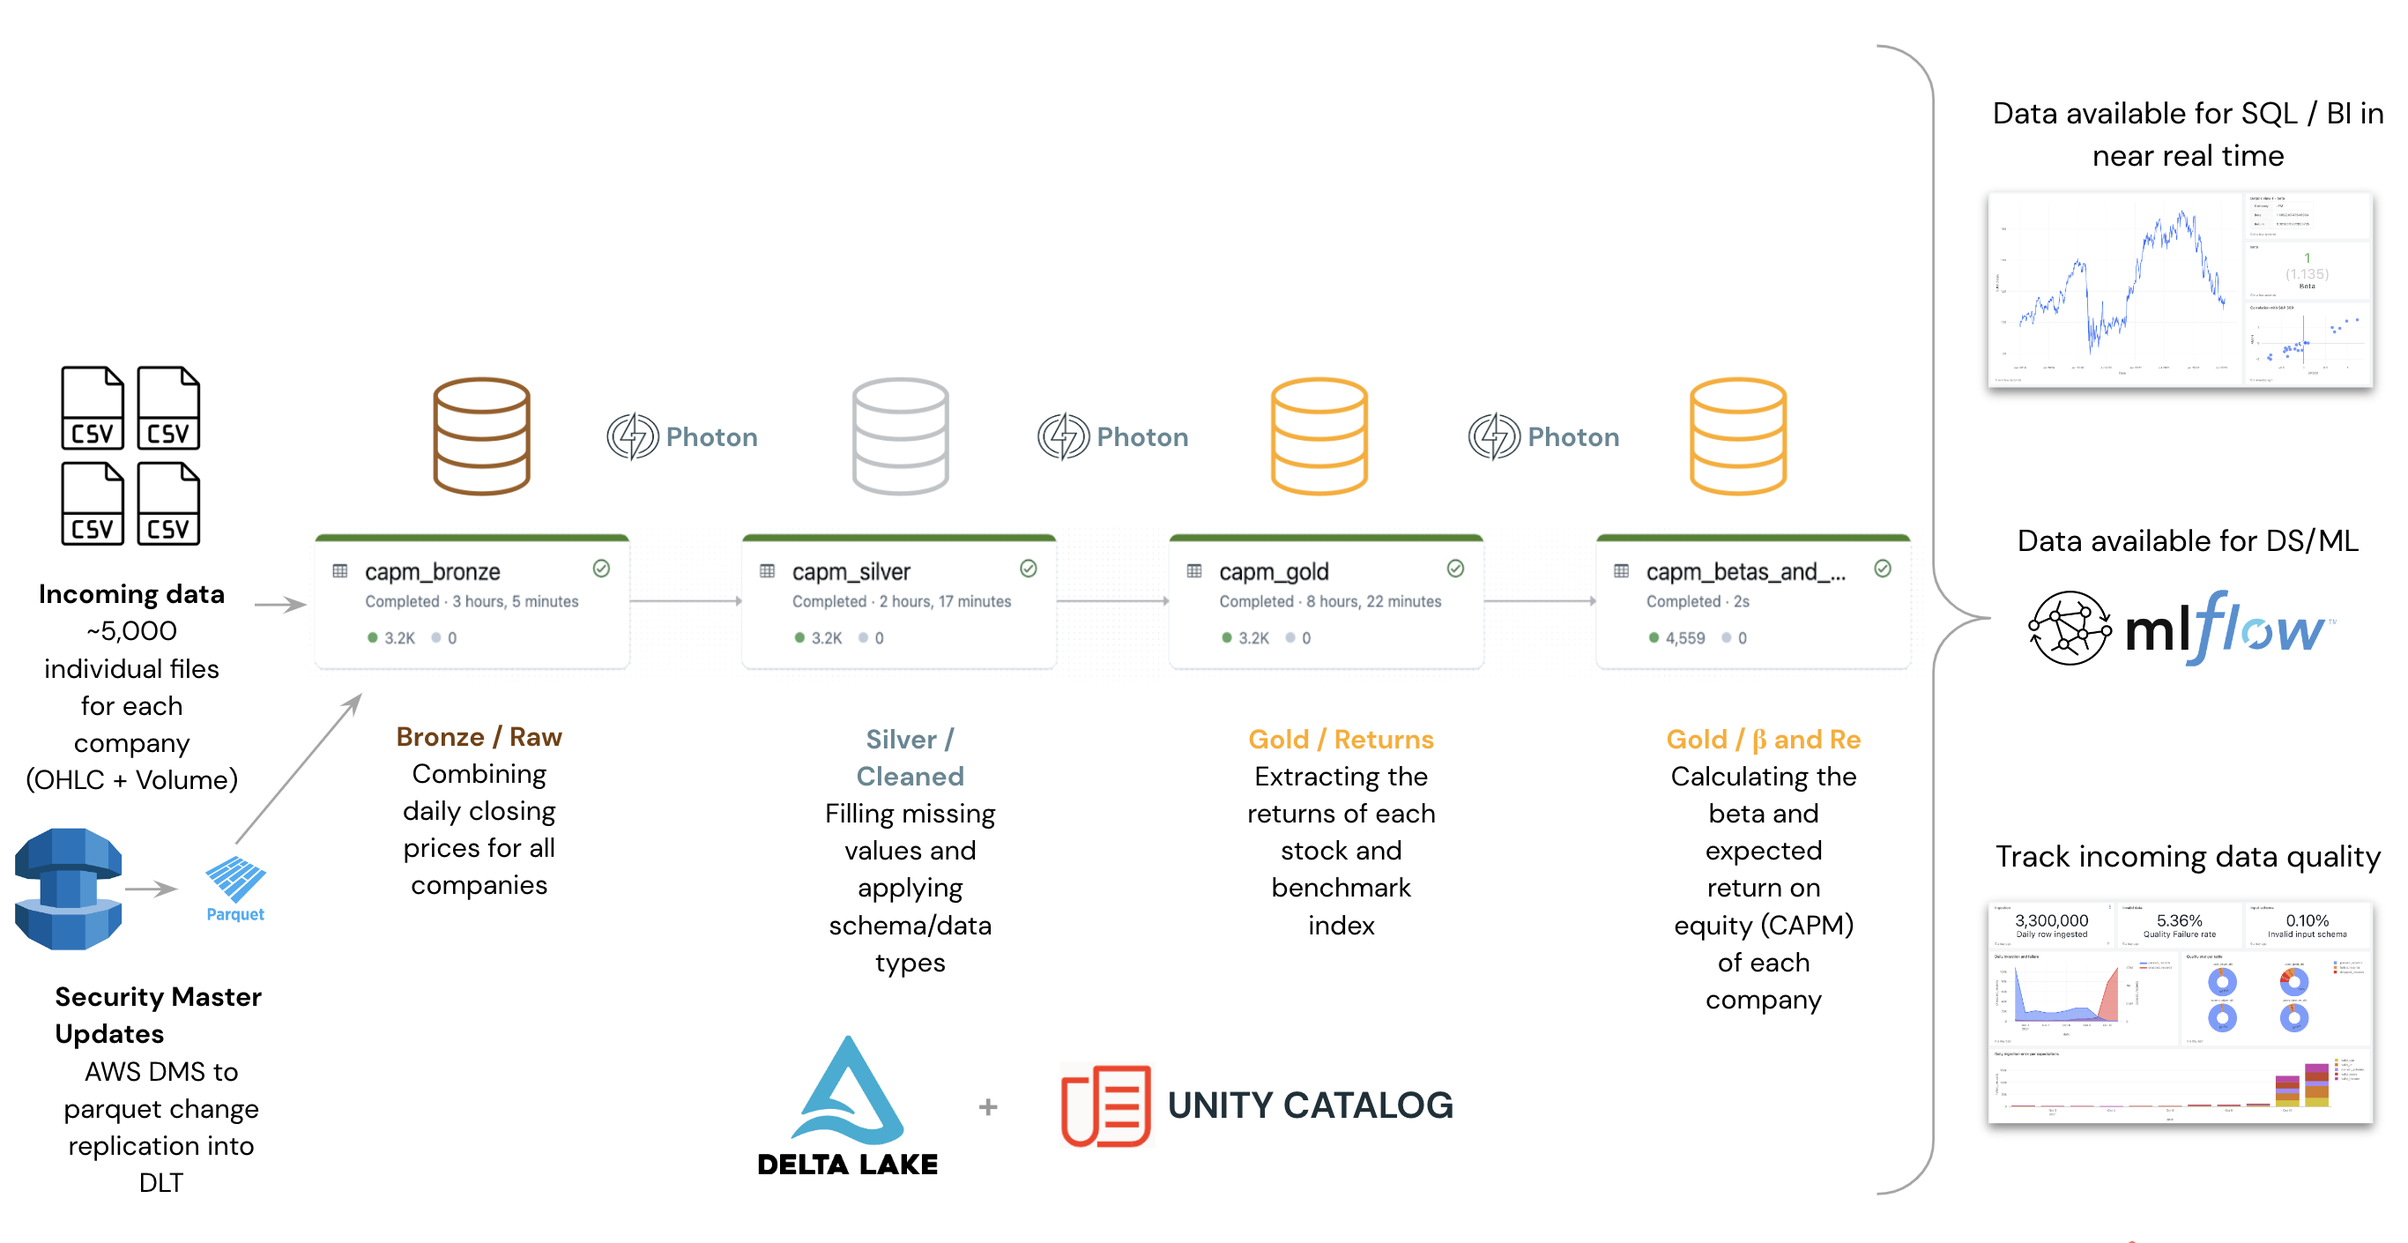
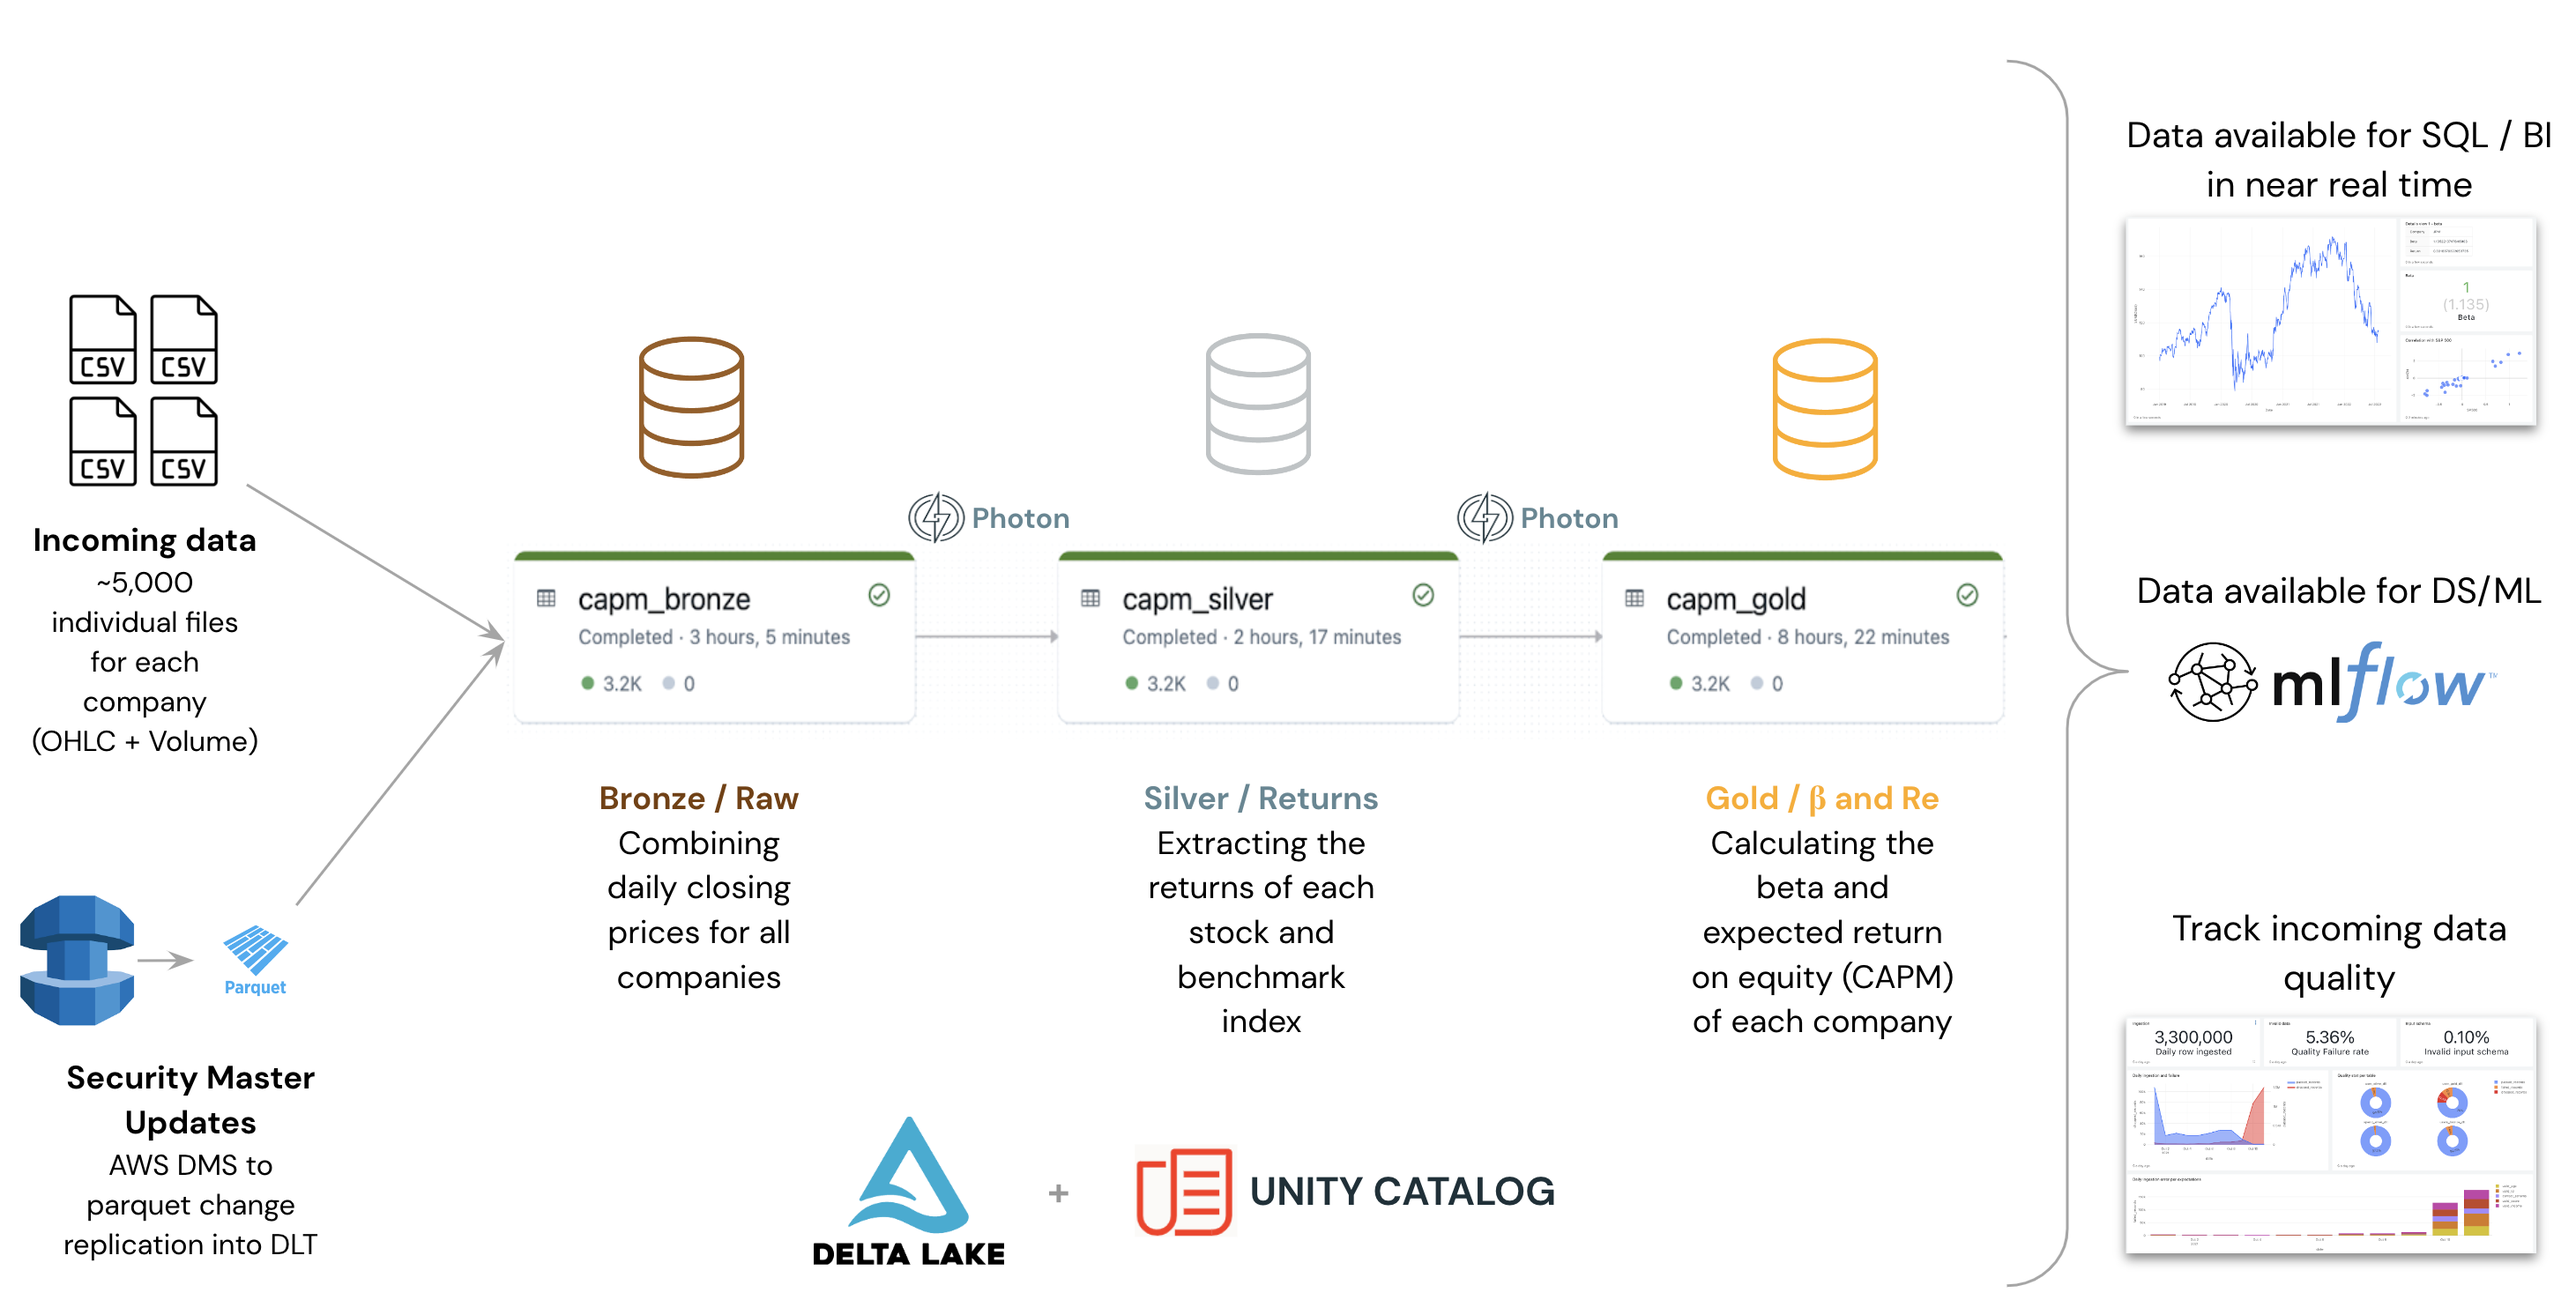
Remove collection in DLT, and other updates
Update with new data source; remove silver table w/ toPandas(); update graphs to reflect new DAG; update RUNME to trigger DLT execution twice to ensure gold table results (TODO: ask DLT channel why this is needed)

diff --git a/02_beta_and_return.py b/02_beta_and_return.py
@@ -14,9 +14,7 @@ from pyspark.sql.types import StructType,StructField, StringType, IntegerType, D
 from pyspark.sql import functions as F
 from pyspark.sql.window import Window
 import pandas as pd
-
-
-import dlt 
+import dlt
 
 # COMMAND ----------
 
@@ -30,54 +28,28 @@ import dlt
 
 @dlt.table(name="capm_bronze")
 def capm_bronze():
-  capm_bronze_df = spark.sql("SELECT * FROM (SELECT to_date(Date, 'yyyy-MM-dd') as DateSP500, Close as SP500 FROM hive_metastore.indices_historical_data.sp_500) as idxs INNER JOIN (SELECT * FROM hive_metastore.stock_market_historical_data.us_closing_prices) as equities ON idxs.DateSP500 = equities.Date;").drop('DateSP500').drop('Date')
+  capm_bronze_df = spark.sql("SELECT * FROM (SELECT to_date(Date, 'yyyy-MM-dd') as DateSP500, Close as SP500 FROM hive_metastore.indices_historical_data.sp_500) as idxs INNER JOIN (SELECT * FROM hive_metastore.stock_market_historical_data.us_closing_100) as equities ON idxs.DateSP500 = equities.Date;").drop('DateSP500').drop('Date')
   return capm_bronze_df
 
 # COMMAND ----------
 
 # MAGIC %md
 # MAGIC 
-# MAGIC # Step 2: Silver layer - Cleaned data
-# MAGIC 
-# MAGIC Forward fill the missing values.
-
-# COMMAND ----------
-
-@dlt.table(name="capm_silver")
-def capm_silver():
-  
-  capm_silver_df = dlt.read('capm_bronze')
-  missing_values_pd = capm_silver_df.select([count(when(isnan(c) | col(c).isNull(), c)).alias(c) for c in capm_silver_df.columns]).toPandas()
-  
-  # forward fill missing value
-  forward_fill_window = (Window.rowsBetween(Window.unboundedPreceding, Window.currentRow))
-  for t in missing_values_pd.columns:
-    if missing_values_pd[t].iloc[0] > 0:
-      capm_silver_df = (
-          capm_silver_df
-          .withColumn(f'{t}', F.last(f'{t}', ignorenulls=True).over(forward_fill_window))
-      )
-  return capm_silver_df
-
-# COMMAND ----------
-
-# MAGIC %md
-# MAGIC 
-# MAGIC # Step 3: Gold layer - Returns data
+# MAGIC # Step 2: Silver layer - Returns data
 # MAGIC 
 # MAGIC Derive the daily returns of the stocks and index.
 
 # COMMAND ----------
 
 # This is how we constrain SP500 not to be null
-goldExpectations = {
+silverExpectations = {
     "sp500_not_null": "SP500 IS NOT NULL" 
 }
 
-@dlt.table(name="capm_gold")
-@dlt.expect_all(goldExpectations)
+@dlt.table(name="capm_silver")
+@dlt.expect_all(silverExpectations)
 def capm_gold():
-  returns_ks = dlt.read('capm_silver').to_koalas()
+  returns_ks = dlt.read('capm_bronze').to_koalas()
   
   # calculate the log of the daily return for each stock
   returns_ks = np.log(returns_ks / returns_ks.shift(1))
@@ -88,13 +60,13 @@ def capm_gold():
 
 # MAGIC %md
 # MAGIC 
-# MAGIC # Step 4: Gold layer - beta and CAPM data
+# MAGIC # Step 3: Gold layer - beta and CAPM data
 # MAGIC 
 # MAGIC Follow the formulas from the previous Notebook and calculate the beta and expected return.
 
 # COMMAND ----------
 
-@dlt.table(name="capm_betas_and_returns")
+@dlt.table(name="capm_gold")
 def betas_and_capmreturn():
   
   # 10 Year Treasury Rate as of August 4, 2022
@@ -103,7 +75,7 @@ def betas_and_capmreturn():
   # SP500 return for 2021, which we will use as a benchmark
   r_m = 0.2689
   
-  returns_ks = dlt.read('capm_gold').to_koalas()
+  returns_ks = dlt.read('capm_silver').to_koalas()
 
   cov_ks = returns_ks.cov() * 250
   
@@ -129,11 +101,3 @@ def betas_and_capmreturn():
     capm = r_f + beta * (r_m - r_f)
     companies_dct.append({'Company': t, 'Beta': float(beta), 'Return' : float(capm)})
   return spark.createDataFrame(data = companies_dct, schema = betas_schema)
-
-# COMMAND ----------
-
-
-
-# COMMAND ----------
-
-

diff --git a/01_introduction.py b/01_introduction.py
@@ -67,7 +67,7 @@
 # MAGIC # Architecture
 # MAGIC 
 # MAGIC This is the architecture of the solution we will build.
-# MAGIC <img src='https://bbb-databricks-demo-assets.s3.amazonaws.com/capm_architecture.png' style="float: center" width="1400px"  />
+# MAGIC <img src='https://github.com/databricks-industry-solutions/quant-beta-capm/raw/main/capm_arch.png' style="float: center" width="1400px"  />
 
 # COMMAND ----------
 
@@ -77,10 +77,10 @@
 # MAGIC 
 # MAGIC CREATE DATABASE IF NOT EXISTS hive_metastore.indices_historical_data;
 # MAGIC 
-# MAGIC DROP TABLE IF EXISTS hive_metastore.stock_market_historical_data.us_closing_prices;
+# MAGIC DROP TABLE IF EXISTS hive_metastore.stock_market_historical_data.us_closing_100;
 # MAGIC 
-# MAGIC CREATE TABLE hive_metastore.stock_market_historical_data.us_closing_prices
-# MAGIC LOCATION 's3a://db-gtm-industry-solutions/data/fsi/capm/us_closing_prices/';
+# MAGIC CREATE TABLE hive_metastore.stock_market_historical_data.us_closing_100
+# MAGIC LOCATION 's3a://db-gtm-industry-solutions/data/fsi/capm/us_closing_100/';
 # MAGIC 
 # MAGIC DROP TABLE IF EXISTS hive_metastore.indices_historical_data.sp_500;
 # MAGIC 
@@ -90,11 +90,11 @@
 # COMMAND ----------
 
 # MAGIC %sql
-# MAGIC SELECT * FROM hive_metastore.stock_market_historical_data.us_closing_prices
+# MAGIC SELECT * FROM hive_metastore.stock_market_historical_data.us_closing_100
 
 # COMMAND ----------
 
-closing_prices_df = spark.sql('select * from hive_metastore.stock_market_historical_data.us_closing_prices')
+closing_prices_df = spark.sql('select * from hive_metastore.stock_market_historical_data.us_closing_100')
 
 # COMMAND ----------
 

diff --git a/RUNME.py b/RUNME.py
@@ -100,9 +100,8 @@ job_json = job_json = {
                 ]
             },
             {
-                "job_cluster_key": "CAPM_cluster",
-                "notebook_task": {
-                    "notebook_path": f"03_productionalizing"
+                "pipeline_task": {
+                    "pipeline_id": pipeline_id # BBB: Need to execute the pipeline twice to guarantee results
                 },
                 "task_key": "CAPM_03",
                 "depends_on": [
@@ -114,12 +113,24 @@ job_json = job_json = {
             {
                 "job_cluster_key": "CAPM_cluster",
                 "notebook_task": {
-                    "notebook_path": f"04_dashboarding"
+                    "notebook_path": f"03_productionalizing"
                 },
                 "task_key": "CAPM_04",
                 "depends_on": [
                     {
                         "task_key": "CAPM_03"
+                    }
+                ]
+            },
+            {
+                "job_cluster_key": "CAPM_cluster",
+                "notebook_task": {
+                    "notebook_path": f"04_dashboarding"
+                },
+                "task_key": "CAPM_05",
+                "depends_on": [
+                    {
+                        "task_key": "CAPM_04"
                     }
                 ]
             }

diff --git a/03_productionalizing.py b/03_productionalizing.py
@@ -8,8 +8,7 @@
 # COMMAND ----------
 
 # MAGIC %md
-# MAGIC 
-# MAGIC <img src='https://bbb-databricks-demo-assets.s3.amazonaws.com/DLT+DAG.png' style="float: center" width="1250px"  />
+# MAGIC <img src='https://github.com/databricks-industry-solutions/quant-beta-capm/raw/main/DLT_DAG.png' style="float: center" width="1250px"  />
 
 # COMMAND ----------
 
@@ -36,4 +35,8 @@
 
 # MAGIC %sql
 # MAGIC 
-# MAGIC SELECT * FROM hive_metastore.stock_market_historical_data.us_closing_prices TIMESTAMP AS OF "2022-07-31 09:57:10"
+# MAGIC SELECT * FROM hive_metastore.stock_market_historical_data.us_closing_100 VERSION AS OF 0
+
+# COMMAND ----------
+
+

diff --git a/04_dashboarding.py b/04_dashboarding.py
@@ -5,4 +5,13 @@
 
 # COMMAND ----------
 
-spark.sql('select * from hive_metastore.capm_dlt_output.capm_betas_and_returns').to_koalas().plot.scatter(x='Beta', y='Return') 
+spark.sql('select * from hive_metastore.capm_dlt_output.capm_gold').to_koalas().plot.scatter(x='Beta', y='Return') 
+
+# COMMAND ----------
+
+# MAGIC %sql
+# MAGIC select * from hive_metastore.capm_dlt_output.capm_gold version as of 3
+
+# COMMAND ----------
+
+

diff --git a/README.md b/README.md
@@ -31,7 +31,7 @@ boris.banushev@databricks.com
 ___
 
 
-<img src='capm_arch.png' />
+<img src='https://github.com/databricks-industry-solutions/quant-beta-capm/raw/main/capm_arch.png' />
 
 ___
 
